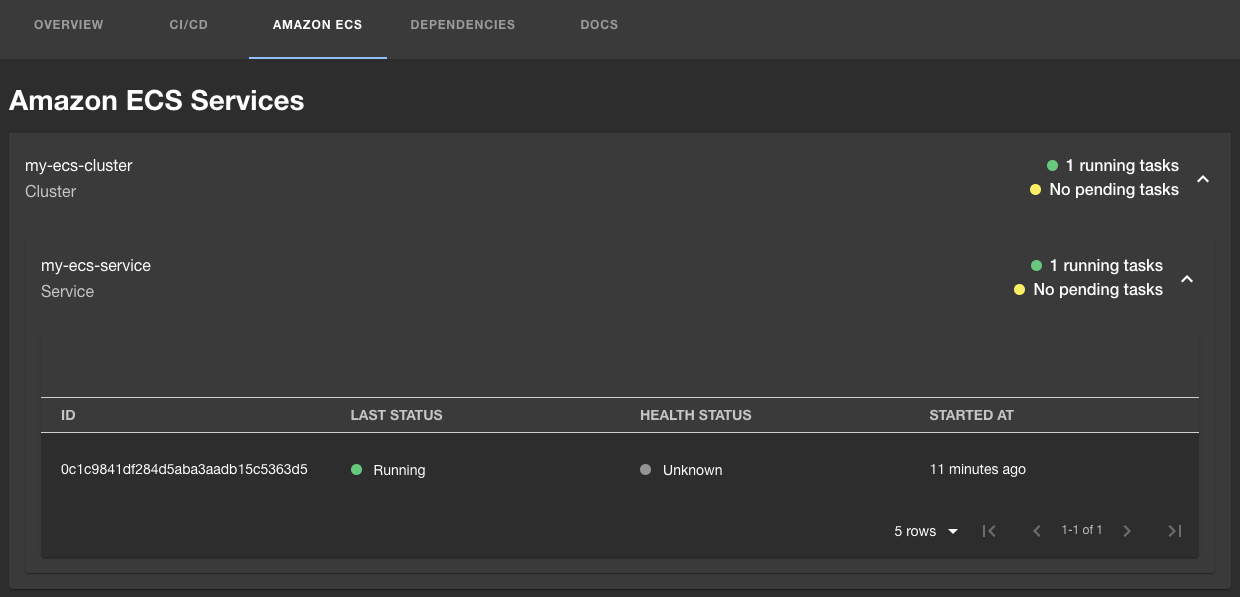
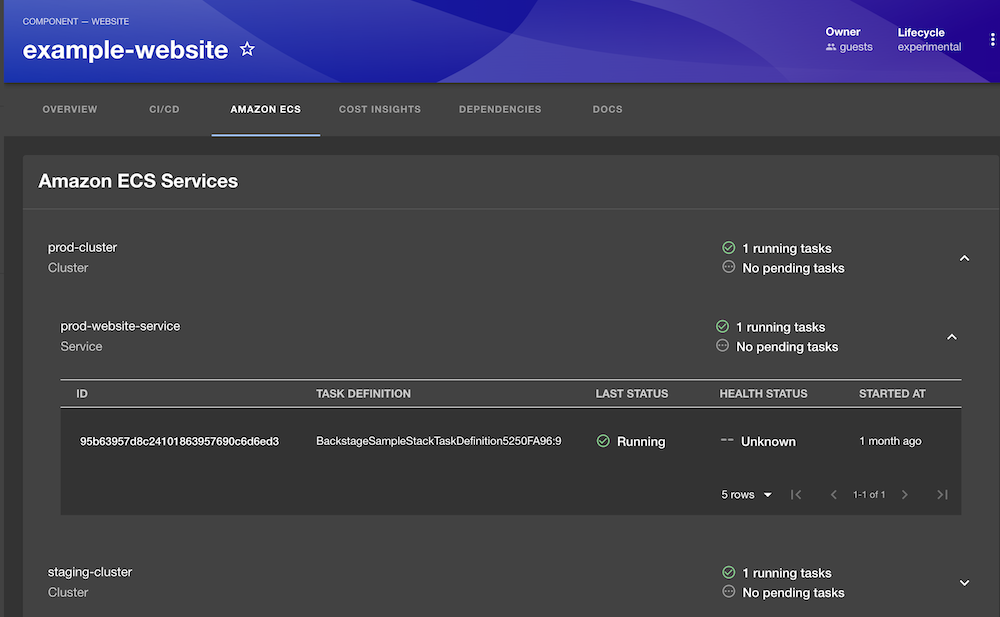
docs: Add tutorial to try the plugins (#258)

diff --git a/docs/tutorial.md b/docs/tutorial.md
@@ -1,3 +1,138 @@
-# Tutorial
+# Tutorial: using the AWS plugins for Backstage
 
-Coming soon!
+The AWS plugins for Backstage enable you to integrate and manage AWS services directly within Backstage, providing a seamless experience for developers. This tutorial walks you through an example of using the AWS plugins for Backstage.
+
+Tutorial steps:
+
+<!-- toc -->
+
+1. [Prerequisites](#prerequisites)
+1. [Clone this repository](#clone-this-repository)
+1. [Create prerequisite AWS resources](#create-prerequisite-aws-resources)
+1. [Run the Backstage app locally](#run-the-backstage-app-locally)
+1. [Explore the Plugins](#explore-the-plugins)
+1. [Cleanup](#cleanup)
+<!-- tocstop -->
+
+## Prerequisites
+
+Before getting started, ensure you have:
+
+- An AWS account
+- Node.js (version 20 or later)
+- CDK CLI installed
+
+## Clone this repository
+
+Before we start, clone the repository to get access to the necessary sample code and configurations.
+
+```
+git clone https://github.com/awslabs/backstage-plugins-for-aws.git
+cd backstage-plugins-for-aws
+```
+
+## Create prerequisite AWS resources
+
+To get started, we'll deploy a sample AWS CDK project included in the repository. This project streamlines the setup process by automatically provisioning key resources, including an ECS cluster, an ECS service, and a CodePipeline that builds and deploys a container image. These resources enable you to interact with real data through the Backstage plugins, eliminating the need for manual configuration and allowing you to focus on exploring the plugin's functionality.
+
+Instructions
+
+1. Navigate to the CDK Project Directory
+
+   Begin by navigating to the directory containing the CDK project:
+
+   ```
+   cd examples/cdk
+   ```
+
+2. Install CDK Project Dependencies
+
+   Inside the directory, install the required dependencies:
+
+   ```
+   yarn install
+   ```
+
+3. Deploy the CDK Stack
+
+   Deploy the sample AWS resources defined in the CDK stack:
+
+   ```
+   cdk deploy
+   ```
+
+   This will provision the AWS resources needed for your project, such as ECS clusters and services.
+
+   Ensure your AWS credentials are configured properly before running the command.
+
+   Deployment may take a few minutes. Once completed, your AWS resources will be ready for use.
+
+## Run the Backstage app locally
+
+With the sample resources in place, you can now run the Backstage app locally to see the plugins in action. The repository already includes pre-installed and configured plugins, so no additional setup is required.
+
+Use the following command to start the Backstage app:
+
+```
+yarn dev
+```
+
+Open your browser and navigate to `http://localhost:3000`, you should see list of entities in the catalog page:
+
+![My Company Catalog](./images/my-company-catalog.png)
+
+Click on the `example-website` component to open its details page:
+
+![Example Website](./images/example-website.png)
+
+If you scroll down on the overview page, you will also see details about AWS CodePipeline and AWS CodeBuild.
+
+![Example Website](./images/example-website-2.png)
+
+The `example-website` entity is already loaded from the file system. The Backstage app includes an [entities.yaml](../examples/entities.yaml) file that defines this entity and its attributes. This entity is annotated with AWS specific metadata, such as:
+
+```
+apiVersion: backstage.io/v1alpha1
+kind: Component
+metadata:
+  name: example-website
+  annotations:
+    aws.amazon.com/aws-codepipeline-tags: component=example-website
+    aws.amazon.com/aws-codebuild-project-tags: component=example-website
+    aws.amazon.com/amazon-ecs-service-tags: component=example-website
+    aws.amazon.com/cost-insights-tags: component=example-website
+```
+
+You can view these annotations directly in Backstage using the `Inspect entity` feature:
+
+- Open the three dots menu in the top-right corner of the entity page.
+- Select `Inspect entity` from the dropdown.
+
+This will show the raw YAML configuration, where you can explore the entity's metadata and annotations.
+
+![Entity Overview](./images/entity-overview.png)
+
+These annotations link the entity to ECS services created by the CDK project, enabling the plugin to fetch and display relevant service details. This is achieved using AWS tags applied to the associated resources. You can review how these tags are defined and applied by checking the CDK project configuration [here](../examples/cdk/lib/cdk-stack.ts#L98).
+
+## Explore the Plugins
+
+CI/CD Tab: See build and deployment information.
+
+![Codepipeline tab](./images/codepipeline-tab.png)
+
+ECS Tab: View the status of ECS services associated with the entity.
+
+![ECS tab](./images/ecs-tab.png)
+
+## Cleanup
+
+Once you’ve explored the plugins, clean up the resources created by the CDK project to avoid unnecessary costs.
+
+Navigate back to the CDK directory and destroy the deployed stack:
+
+```
+cd examples/cdk
+cdk destroy
+```
+
+Confirm the prompt to delete all resources.
